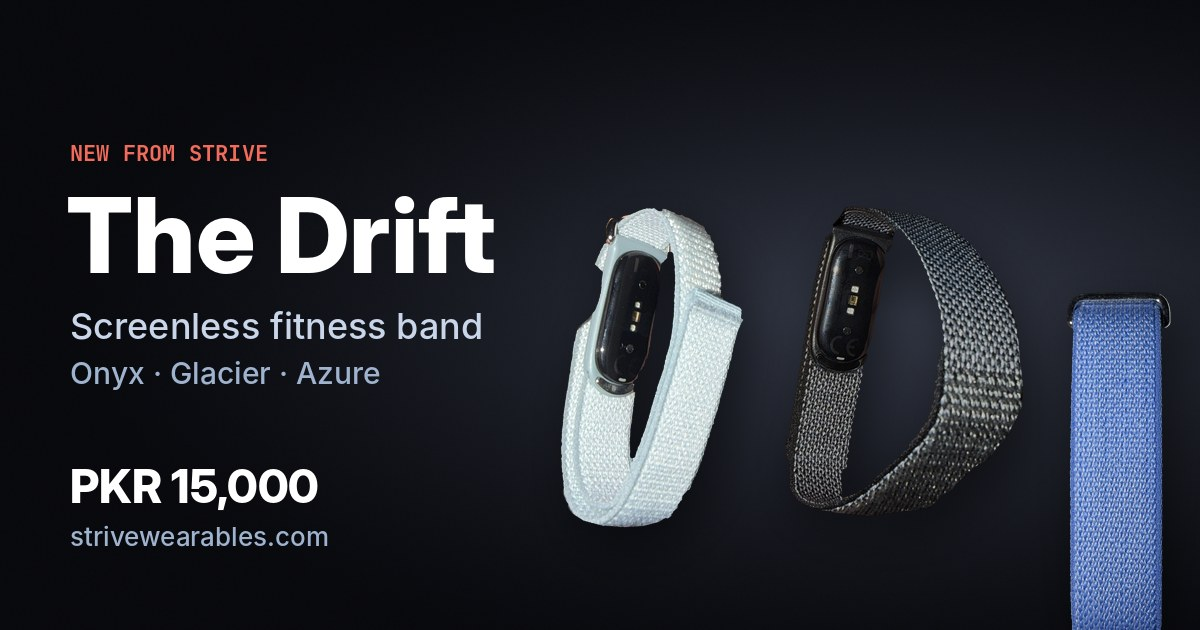
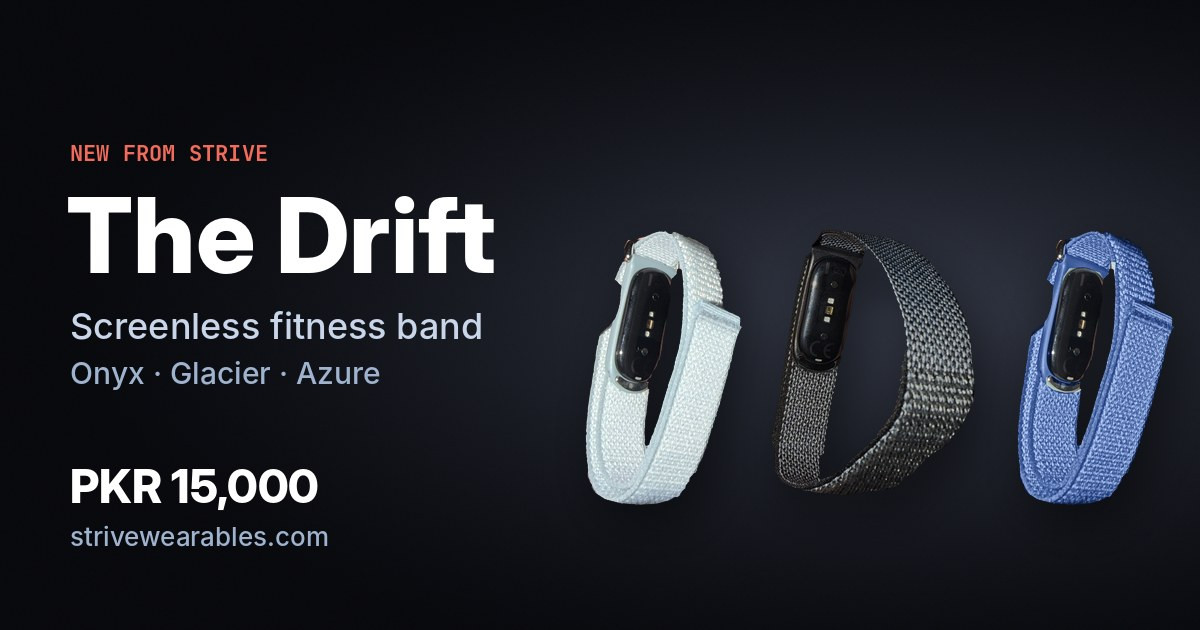
Give Azure a whole-band photo to match Onyx and Glacier
All three colours now lead with the whole band. The Azure shot is the Glacier
whole-band photo with the strap re-coloured to the real Azure blue, as the
Loop's colourways were made; README says so.

Claude-Session: https://claude.ai/code/session_016PYtBGksEsv6PuuVT3mhrr

Changed region(s): [[0.6475, 0.3317, 0.9867, 1.0], [0.4625, 0.3317, 0.6167, 0.8444]]

diff --git a/index.html b/index.html
@@ -26,7 +26,7 @@ function striveTrack(event, params, ga) {
   } catch (e) {}
 }
 var LOOP_EVENT = { content_name: 'The Drift', content_type: 'product', content_ids: ['the-drift'], value: 15000, currency: 'PKR' }; /* the current band (variable name kept from The Loop) */
-</script><script type="application/ld+json">[{"@context":"https://schema.org/","@type":"Product","name":"The Drift by Strive","image":["https://strivewearables.com/img/drift-onyx-band.jpg","https://strivewearables.com/img/drift-glacier-band.jpg","https://strivewearables.com/img/drift-azure-box.jpg"],"description":"A screenless fitness band in three colours (Onyx, Glacier, Azure) with heart rate monitoring, sleep monitoring and 100+ sports modes on a soft woven strap.","color":"Onyx, Glacier, Azure","brand":{"@type":"Brand","name":"Strive Wearables"},"offers":{"@type":"Offer","priceCurrency":"PKR","price":"15000","availability":"https://schema.org/InStock","url":"https://strivewearables.com/#models"}},{"@context":"https://schema.org/","@type":"Product","name":"Strive Arise","color":"Carbon","brand":{"@type":"Brand","name":"Strive Wearables"},"offers":{"@type":"Offer","priceCurrency":"PKR","price":"14000","availability":"https://schema.org/LimitedAvailability","url":"https://strivewearables.com/#models"}},{"@context":"https://schema.org/","@type":"Product","name":"The Loop by Strive","brand":{"@type":"Brand","name":"Strive Wearables"},"offers":{"@type":"Offer","priceCurrency":"PKR","price":"15000","availability":"https://schema.org/OutOfStock","url":"https://strivewearables.com/#models"}}]</script></head><body><svg style="display:none" aria-hidden="true"><symbol id="chk" viewBox="0 0 24 24" fill="none" stroke="#F26B5B" stroke-width="2.5" stroke-linecap="round" stroke-linejoin="round"><path d="M20 6 9 17l-5-5"/></symbol></svg><div class="drop-banner"><div class="wrap drop-banner-inner"><span class="drop-badge">NEW</span><span class="drop-text">The Drift is here — three colours, PKR 15,000.</span><a class="drop-cta" href="#buy">Order now</a></div></div><header class="site"><div class="wrap nav"><a class="logo" href="#top" aria-label="Strive Wearables home"><svg class="mark" viewBox="0 0 40 40" role="img" aria-hidden="true"><defs><linearGradient id="logograd" x1="0" y1="1" x2="1" y2="0"><stop offset="0" stop-color="#1D4ED8"/><stop offset=".5" stop-color="#06B6D4"/><stop offset="1" stop-color="#22C55E"/></linearGradient></defs><rect width="40" height="40" rx="11" fill="rgba(255,255,255,.06)" stroke="rgba(255,255,255,.14)"/><path d="M6 25 L14 25 L16.5 17 L20 31 L24 11 L26.5 20 L29 20 L33 11" fill="none" stroke="url(#logograd)" stroke-width="2.6" stroke-linecap="round" stroke-linejoin="round"/><path d="M28.5 15.5 L33 11 L33 16.6" fill="none" stroke="url(#logograd)" stroke-width="2.6" stroke-linecap="round" stroke-linejoin="round"/></svg><span><span class="word">STRIVE</span><span class="sub">Wearables</span></span></a><nav aria-label="Primary"><a href="#models">The Drift</a><a href="#reviews">Reviews</a><a href="#features">Features</a><a href="#gifting">Gifting</a><a href="#faq">FAQ</a></nav><div class="nav-cta"><button type="button" class="cart-btn" id="cartBtn" aria-label="Cart, 0 items"><svg width="22" height="22" viewBox="0 0 24 24" fill="none" stroke="currentColor" stroke-width="2" stroke-linecap="round" stroke-linejoin="round" aria-hidden="true"><circle cx="9.5" cy="19.5" r="1.5"/><circle cx="17.5" cy="19.5" r="1.5"/><path d="M2.5 3.5h2.8l2.3 11a2 2 0 0 0 2 1.6h7.6a2 2 0 0 0 2-1.5l1.5-7.1H6.2"/></svg><span class="cart-n" id="cartCount" hidden>0</span></button><a class="btn btn-grad" href="#buy">Order now</a></div></div></header><nav class="mnav" aria-label="Sections"><div class="wrap mnav-row"><a href="#models">Price</a><a href="#reviews">Reviews</a><a href="#gifting">Gifting</a><a href="#faq">FAQ</a><a href="https://wa.me/923210077442" target="_blank" rel="noopener">WhatsApp</a></div></nav><main id="top"><section class="hero"><div class="blob" aria-hidden="true"></div><div id="particles" aria-hidden="true"></div><div class="ecg-bg" aria-hidden="true"><svg viewBox="0 0 1600 160" preserveAspectRatio="none"><path class="ecg-track" fill="none" stroke="#F26B5B" stroke-width="2.5" stroke-linejoin="round" stroke-linecap="round"
+</script><script type="application/ld+json">[{"@context":"https://schema.org/","@type":"Product","name":"The Drift by Strive","image":["https://strivewearables.com/img/drift-onyx-band.jpg","https://strivewearables.com/img/drift-glacier-band.jpg","https://strivewearables.com/img/drift-azure-band.jpg"],"description":"A screenless fitness band in three colours (Onyx, Glacier, Azure) with heart rate monitoring, sleep monitoring and 100+ sports modes on a soft woven strap.","color":"Onyx, Glacier, Azure","brand":{"@type":"Brand","name":"Strive Wearables"},"offers":{"@type":"Offer","priceCurrency":"PKR","price":"15000","availability":"https://schema.org/InStock","url":"https://strivewearables.com/#models"}},{"@context":"https://schema.org/","@type":"Product","name":"Strive Arise","color":"Carbon","brand":{"@type":"Brand","name":"Strive Wearables"},"offers":{"@type":"Offer","priceCurrency":"PKR","price":"14000","availability":"https://schema.org/LimitedAvailability","url":"https://strivewearables.com/#models"}},{"@context":"https://schema.org/","@type":"Product","name":"The Loop by Strive","brand":{"@type":"Brand","name":"Strive Wearables"},"offers":{"@type":"Offer","priceCurrency":"PKR","price":"15000","availability":"https://schema.org/OutOfStock","url":"https://strivewearables.com/#models"}}]</script></head><body><svg style="display:none" aria-hidden="true"><symbol id="chk" viewBox="0 0 24 24" fill="none" stroke="#F26B5B" stroke-width="2.5" stroke-linecap="round" stroke-linejoin="round"><path d="M20 6 9 17l-5-5"/></symbol></svg><div class="drop-banner"><div class="wrap drop-banner-inner"><span class="drop-badge">NEW</span><span class="drop-text">The Drift is here — three colours, PKR 15,000.</span><a class="drop-cta" href="#buy">Order now</a></div></div><header class="site"><div class="wrap nav"><a class="logo" href="#top" aria-label="Strive Wearables home"><svg class="mark" viewBox="0 0 40 40" role="img" aria-hidden="true"><defs><linearGradient id="logograd" x1="0" y1="1" x2="1" y2="0"><stop offset="0" stop-color="#1D4ED8"/><stop offset=".5" stop-color="#06B6D4"/><stop offset="1" stop-color="#22C55E"/></linearGradient></defs><rect width="40" height="40" rx="11" fill="rgba(255,255,255,.06)" stroke="rgba(255,255,255,.14)"/><path d="M6 25 L14 25 L16.5 17 L20 31 L24 11 L26.5 20 L29 20 L33 11" fill="none" stroke="url(#logograd)" stroke-width="2.6" stroke-linecap="round" stroke-linejoin="round"/><path d="M28.5 15.5 L33 11 L33 16.6" fill="none" stroke="url(#logograd)" stroke-width="2.6" stroke-linecap="round" stroke-linejoin="round"/></svg><span><span class="word">STRIVE</span><span class="sub">Wearables</span></span></a><nav aria-label="Primary"><a href="#models">The Drift</a><a href="#reviews">Reviews</a><a href="#features">Features</a><a href="#gifting">Gifting</a><a href="#faq">FAQ</a></nav><div class="nav-cta"><button type="button" class="cart-btn" id="cartBtn" aria-label="Cart, 0 items"><svg width="22" height="22" viewBox="0 0 24 24" fill="none" stroke="currentColor" stroke-width="2" stroke-linecap="round" stroke-linejoin="round" aria-hidden="true"><circle cx="9.5" cy="19.5" r="1.5"/><circle cx="17.5" cy="19.5" r="1.5"/><path d="M2.5 3.5h2.8l2.3 11a2 2 0 0 0 2 1.6h7.6a2 2 0 0 0 2-1.5l1.5-7.1H6.2"/></svg><span class="cart-n" id="cartCount" hidden>0</span></button><a class="btn btn-grad" href="#buy">Order now</a></div></div></header><nav class="mnav" aria-label="Sections"><div class="wrap mnav-row"><a href="#models">Price</a><a href="#reviews">Reviews</a><a href="#gifting">Gifting</a><a href="#faq">FAQ</a><a href="https://wa.me/923210077442" target="_blank" rel="noopener">WhatsApp</a></div></nav><main id="top"><section class="hero"><div class="blob" aria-hidden="true"></div><div id="particles" aria-hidden="true"></div><div class="ecg-bg" aria-hidden="true"><svg viewBox="0 0 1600 160" preserveAspectRatio="none"><path class="ecg-track" fill="none" stroke="#F26B5B" stroke-width="2.5" stroke-linejoin="round" stroke-linecap="round"
         d="M0 80 H120 l16 0 l10 -42 l14 78 l16 -120 l12 84 l10 0 H300 l16 0 l10 -42 l14 78 l16 -120 l12 84 l10 0 H500 l16 0 l10 -42 l14 78 l16 -120 l12 84 l10 0 H700 l16 0 l10 -42 l14 78 l16 -120 l12 84 l10 0 H900 l16 0 l10 -42 l14 78 l16 -120 l12 84 l10 0 H1100 l16 0 l10 -42 l14 78 l16 -120 l12 84 l10 0 H1300 l16 0 l10 -42 l14 78 l16 -120 l12 84 l10 0 H1600"/></svg></div><div class="wrap hero-grid"><div><span class="eyebrow">New · The Drift</span><h1>Train. Track. <span class="grad-text">Repeat.</span></h1><p class="lead">A screenless fitness band that gets out of your way. No display to distract you — your numbers live in the companion app.</p><div class="hero-fan" role="img" aria-label="The Drift in Onyx, Glacier and Azure"><img src="img/hero-drift-onyx.jpg" alt="" width="400" height="500" loading="lazy" /><img src="img/hero-drift-glacier.jpg" alt="" width="400" height="500" loading="lazy" /><img src="img/hero-drift-azure.jpg" alt="" width="400" height="500" loading="lazy" /></div><p class="hero-price"><strong>PKR 15,000</strong> · 3 colours</p><div class="cta-row"><a class="btn btn-grad" href="#buy">Order now</a><a class="btn btn-ghost" href="#features">What it tracks</a></div><div class="trust"><span><i class="dot"></i> Delivery across Pakistan</span><span><i class="dot"></i> Heart rate &amp; sleep monitoring</span><span><i class="dot"></i> 100+ sports modes</span></div></div><div class="glass" role="img" aria-label="Example of a day in the companion app: heart rate 62 bpm, 7 hours 20 minutes sleep, a 45 minute workout."><div class="gh"><span class="day">Example day · Companion app</span></div><div class="ring-wrap"><svg class="ring" viewBox="0 0 120 120" aria-hidden="true"><defs><linearGradient id="ringgrad" x1="0" y1="1" x2="1" y2="0"><stop offset="0" stop-color="#F26B5B"/><stop offset="1" stop-color="#FFB3A7"/></linearGradient></defs><circle class="bg" cx="60" cy="60" r="54" fill="none" stroke-width="11"/><circle class="fg" id="heroRing" cx="60" cy="60" r="54" fill="none" stroke-width="11"/><g class="ring-center" text-anchor="middle"><text class="pct" x="60" y="62">62</text><text class="lbl" x="60" y="77">BPM</text></g></svg><div class="ring-info"><div class="big">7h 20<small>m</small></div><div class="small">Sleep last night</div></div></div><div class="stat-row"><div class="stat"><div class="k">Workout</div><div class="v">45<small> min</small></div></div><div class="stat"><div class="k">Avg heart rate</div><div class="v">128<small> bpm</small></div></div><div class="stat"><div class="k">Sports modes</div><div class="v">100<small>+</small></div></div></div></div></div></div></section><div class="marquee" aria-hidden="true"><div class="track"><span>Time to Strive</span><span>Heart Rate Monitoring</span><span>Sleep Monitoring</span><span>100+ Sports Modes</span><span>No Screen</span><span>Soft Woven Strap</span><span>Three Colours</span><span>Delivery Across Pakistan</span><span>Time to Strive</span><span>Heart Rate Monitoring</span><span>Sleep Monitoring</span><span>100+ Sports Modes</span><span>No Screen</span><span>Soft Woven Strap</span><span>Three Colours</span><span>Delivery Across Pakistan</span></div></div><section class="models section-pad" id="models"><div class="wrap"><div class="sec-head reveal" style="text-align:center;margin-inline:auto"><span class="eyebrow">New from Strive</span><h2 style="color:#fff">Meet <span class="loop-grad">The Drift</span></h2><p style="color:#9fb3cf">Our new screenless band — a soft woven strap, no display, three colours. Your data lives in the companion app.</p></div><div class="showcase"><div class="showcase-visual"><div class="showcase-media" id="media"><img id="productImg" src="img/drift-onyx-band.jpg" alt="The Drift in Onyx (black) — the whole band" width="900" height="1125" decoding="async" /><span class="media-note" id="mediaNote">Onyx</span></div><div class="media-thumbs" id="mediaThumbs" role="group" aria-label="Product photos"><button type="button" class="thumb on" data-view="band" aria-pressed="true" aria-label="The whole band"><img src="img/thumb-drift-onyx-band.jpg" alt="" width="160" height="200" loading="lazy" decoding="async" /></button><button type="button" class="thumb" data-view="strap" aria-pressed="false" aria-label="Strap and buckle"><img src="img/thumb-drift-onyx-strap.jpg" alt="" width="160" height="200" loading="lazy" decoding="async" /></button><button type="button" class="thumb" data-view="back" aria-pressed="false" aria-label="Fastening"><img src="img/thumb-drift-onyx-back.jpg" alt="" width="160" height="200" loading="lazy" decoding="async" /></button></div></div><div class="showcase-body" id="buy"><span class="badge2">New</span><h3><span class="loop-grad">The Drift</span></h3><div class="tag">One soft woven strap. Three colours. No screen.</div><div class="price">PKR 15,000</div><p class="pay-note">Pay by Bank Deposit (no cash on delivery) · Delivery across Pakistan, delivery charges apply · Same-day delivery in Lahore</p><div class="swatch-label">Colour: <strong id="swatchName">Onyx</strong> <span class="swatch-sub" id="swatchSub">· black</span></div><div class="swatches" role="radiogroup" aria-label="Colour"><button type="button" class="swatch on" data-variant="Onyx" data-sub="black" style="--sw:#1B1C20" role="radio" aria-checked="true"><span></span>Onyx</button><button type="button" class="swatch" data-variant="Glacier" data-sub="light blue" style="--sw:#D5E6EC" role="radio" aria-checked="false"><span></span>Glacier</button><button type="button" class="swatch" data-variant="Azure" data-sub="blue" style="--sw:#5F8BDA" role="radio" aria-checked="false"><span></span>Azure</button></div><div class="buy-box"><div class="qty-row"><span class="qty-label" id="qtyLabel">Quantity</span><div class="qty" role="group" aria-labelledby="qtyLabel"><button type="button" class="qty-btn" id="qtyMinus" aria-label="One less">&minus;</button><output class="qty-val" id="qtyVal" aria-live="polite">1</output><button type="button" class="qty-btn" id="qtyPlus" aria-label="One more">+</button></div></div><div id="product-buy"></div><p class="buy-msg" id="buyMsg" role="status" hidden></p><script>(function () {
   /* The shop: Add to cart / cart drawer / Shopify checkout.
      Pick a colour + quantity, Add to cart, repeat for other colours, then Checkout in the cart.
@@ -47,7 +47,7 @@ var LOOP_EVENT = { content_name: 'The Drift', content_type: 'product', content_i
   var ITEMS = {
     Onyx: { title: 'The Drift', colour: 'Onyx', price: 15000, max: 10, product: 'band', thumb: 'img/thumb-drift-onyx-band.jpg' },
     Glacier: { title: 'The Drift', colour: 'Glacier', price: 15000, max: 10, product: 'band', thumb: 'img/thumb-drift-glacier-band.jpg' },
-    Azure: { title: 'The Drift', colour: 'Azure', price: 15000, max: 10, product: 'band', thumb: 'img/thumb-drift-azure-box.jpg' },
+    Azure: { title: 'The Drift', colour: 'Azure', price: 15000, max: 10, product: 'band', thumb: 'img/thumb-drift-azure-band.jpg' },
     Arise: { title: 'Strive Arise', colour: 'Carbon', price: 14000, max: 1, product: 'arise', thumb: 'img/thumb-arise.jpg' }
   };
   var KEYS = Object.keys(ITEMS);
@@ -485,7 +485,7 @@ document.querySelectorAll('[data-close-modal]').forEach(el=>{
   el.addEventListener('click', closeModal);
 });
 /* Product gallery: each colour has its own set of photos */
-const GALLERY = {"Onyx": [["band", "the whole band"], ["strap", "strap and buckle"], ["back", "fastening"]], "Glacier": [["band", "the whole band"], ["strap", "strap and buckle"], ["weave", "the weave up close"]], "Azure": [["box", "in the box"], ["strap", "strap and buckle"], ["weave", "the weave up close"]]};
+const GALLERY = {"Onyx": [["band", "the whole band"], ["strap", "strap and buckle"], ["back", "fastening"]], "Glacier": [["band", "the whole band"], ["strap", "strap and buckle"], ["weave", "the weave up close"]], "Azure": [["band", "the whole band"], ["box", "in the box"], ["strap", "strap and buckle"]]};
 const COLOUR_SUB = {"Onyx": "black", "Glacier": "light blue", "Azure": "blue"};
 const COLOUR_FILE = {"Onyx": "onyx", "Glacier": "glacier", "Azure": "azure"};
 let mediaView = 'band';

diff --git a/strive-arise-all-in-one.html b/strive-arise-all-in-one.html
@@ -26,7 +26,7 @@ function striveTrack(event, params, ga) {
   } catch (e) {}
 }
 var LOOP_EVENT = { content_name: 'The Drift', content_type: 'product', content_ids: ['the-drift'], value: 15000, currency: 'PKR' }; /* the current band (variable name kept from The Loop) */
-</script><script type="application/ld+json">[{"@context":"https://schema.org/","@type":"Product","name":"The Drift by Strive","image":["https://strivewearables.com/img/drift-onyx-band.jpg","https://strivewearables.com/img/drift-glacier-band.jpg","https://strivewearables.com/img/drift-azure-box.jpg"],"description":"A screenless fitness band in three colours (Onyx, Glacier, Azure) with heart rate monitoring, sleep monitoring and 100+ sports modes on a soft woven strap.","color":"Onyx, Glacier, Azure","brand":{"@type":"Brand","name":"Strive Wearables"},"offers":{"@type":"Offer","priceCurrency":"PKR","price":"15000","availability":"https://schema.org/InStock","url":"https://strivewearables.com/#models"}},{"@context":"https://schema.org/","@type":"Product","name":"Strive Arise","color":"Carbon","brand":{"@type":"Brand","name":"Strive Wearables"},"offers":{"@type":"Offer","priceCurrency":"PKR","price":"14000","availability":"https://schema.org/LimitedAvailability","url":"https://strivewearables.com/#models"}},{"@context":"https://schema.org/","@type":"Product","name":"The Loop by Strive","brand":{"@type":"Brand","name":"Strive Wearables"},"offers":{"@type":"Offer","priceCurrency":"PKR","price":"15000","availability":"https://schema.org/OutOfStock","url":"https://strivewearables.com/#models"}}]</script></head><body><svg style="display:none" aria-hidden="true"><symbol id="chk" viewBox="0 0 24 24" fill="none" stroke="#F26B5B" stroke-width="2.5" stroke-linecap="round" stroke-linejoin="round"><path d="M20 6 9 17l-5-5"/></symbol></svg><div class="drop-banner"><div class="wrap drop-banner-inner"><span class="drop-badge">NEW</span><span class="drop-text">The Drift is here — three colours, PKR 15,000.</span><a class="drop-cta" href="#buy">Order now</a></div></div><header class="site"><div class="wrap nav"><a class="logo" href="#top" aria-label="Strive Wearables home"><svg class="mark" viewBox="0 0 40 40" role="img" aria-hidden="true"><defs><linearGradient id="logograd" x1="0" y1="1" x2="1" y2="0"><stop offset="0" stop-color="#1D4ED8"/><stop offset=".5" stop-color="#06B6D4"/><stop offset="1" stop-color="#22C55E"/></linearGradient></defs><rect width="40" height="40" rx="11" fill="rgba(255,255,255,.06)" stroke="rgba(255,255,255,.14)"/><path d="M6 25 L14 25 L16.5 17 L20 31 L24 11 L26.5 20 L29 20 L33 11" fill="none" stroke="url(#logograd)" stroke-width="2.6" stroke-linecap="round" stroke-linejoin="round"/><path d="M28.5 15.5 L33 11 L33 16.6" fill="none" stroke="url(#logograd)" stroke-width="2.6" stroke-linecap="round" stroke-linejoin="round"/></svg><span><span class="word">STRIVE</span><span class="sub">Wearables</span></span></a><nav aria-label="Primary"><a href="#models">The Drift</a><a href="#reviews">Reviews</a><a href="#features">Features</a><a href="#gifting">Gifting</a><a href="#faq">FAQ</a></nav><div class="nav-cta"><button type="button" class="cart-btn" id="cartBtn" aria-label="Cart, 0 items"><svg width="22" height="22" viewBox="0 0 24 24" fill="none" stroke="currentColor" stroke-width="2" stroke-linecap="round" stroke-linejoin="round" aria-hidden="true"><circle cx="9.5" cy="19.5" r="1.5"/><circle cx="17.5" cy="19.5" r="1.5"/><path d="M2.5 3.5h2.8l2.3 11a2 2 0 0 0 2 1.6h7.6a2 2 0 0 0 2-1.5l1.5-7.1H6.2"/></svg><span class="cart-n" id="cartCount" hidden>0</span></button><a class="btn btn-grad" href="#buy">Order now</a></div></div></header><nav class="mnav" aria-label="Sections"><div class="wrap mnav-row"><a href="#models">Price</a><a href="#reviews">Reviews</a><a href="#gifting">Gifting</a><a href="#faq">FAQ</a><a href="https://wa.me/923210077442" target="_blank" rel="noopener">WhatsApp</a></div></nav><main id="top"><section class="hero"><div class="blob" aria-hidden="true"></div><div id="particles" aria-hidden="true"></div><div class="ecg-bg" aria-hidden="true"><svg viewBox="0 0 1600 160" preserveAspectRatio="none"><path class="ecg-track" fill="none" stroke="#F26B5B" stroke-width="2.5" stroke-linejoin="round" stroke-linecap="round"
+</script><script type="application/ld+json">[{"@context":"https://schema.org/","@type":"Product","name":"The Drift by Strive","image":["https://strivewearables.com/img/drift-onyx-band.jpg","https://strivewearables.com/img/drift-glacier-band.jpg","https://strivewearables.com/img/drift-azure-band.jpg"],"description":"A screenless fitness band in three colours (Onyx, Glacier, Azure) with heart rate monitoring, sleep monitoring and 100+ sports modes on a soft woven strap.","color":"Onyx, Glacier, Azure","brand":{"@type":"Brand","name":"Strive Wearables"},"offers":{"@type":"Offer","priceCurrency":"PKR","price":"15000","availability":"https://schema.org/InStock","url":"https://strivewearables.com/#models"}},{"@context":"https://schema.org/","@type":"Product","name":"Strive Arise","color":"Carbon","brand":{"@type":"Brand","name":"Strive Wearables"},"offers":{"@type":"Offer","priceCurrency":"PKR","price":"14000","availability":"https://schema.org/LimitedAvailability","url":"https://strivewearables.com/#models"}},{"@context":"https://schema.org/","@type":"Product","name":"The Loop by Strive","brand":{"@type":"Brand","name":"Strive Wearables"},"offers":{"@type":"Offer","priceCurrency":"PKR","price":"15000","availability":"https://schema.org/OutOfStock","url":"https://strivewearables.com/#models"}}]</script></head><body><svg style="display:none" aria-hidden="true"><symbol id="chk" viewBox="0 0 24 24" fill="none" stroke="#F26B5B" stroke-width="2.5" stroke-linecap="round" stroke-linejoin="round"><path d="M20 6 9 17l-5-5"/></symbol></svg><div class="drop-banner"><div class="wrap drop-banner-inner"><span class="drop-badge">NEW</span><span class="drop-text">The Drift is here — three colours, PKR 15,000.</span><a class="drop-cta" href="#buy">Order now</a></div></div><header class="site"><div class="wrap nav"><a class="logo" href="#top" aria-label="Strive Wearables home"><svg class="mark" viewBox="0 0 40 40" role="img" aria-hidden="true"><defs><linearGradient id="logograd" x1="0" y1="1" x2="1" y2="0"><stop offset="0" stop-color="#1D4ED8"/><stop offset=".5" stop-color="#06B6D4"/><stop offset="1" stop-color="#22C55E"/></linearGradient></defs><rect width="40" height="40" rx="11" fill="rgba(255,255,255,.06)" stroke="rgba(255,255,255,.14)"/><path d="M6 25 L14 25 L16.5 17 L20 31 L24 11 L26.5 20 L29 20 L33 11" fill="none" stroke="url(#logograd)" stroke-width="2.6" stroke-linecap="round" stroke-linejoin="round"/><path d="M28.5 15.5 L33 11 L33 16.6" fill="none" stroke="url(#logograd)" stroke-width="2.6" stroke-linecap="round" stroke-linejoin="round"/></svg><span><span class="word">STRIVE</span><span class="sub">Wearables</span></span></a><nav aria-label="Primary"><a href="#models">The Drift</a><a href="#reviews">Reviews</a><a href="#features">Features</a><a href="#gifting">Gifting</a><a href="#faq">FAQ</a></nav><div class="nav-cta"><button type="button" class="cart-btn" id="cartBtn" aria-label="Cart, 0 items"><svg width="22" height="22" viewBox="0 0 24 24" fill="none" stroke="currentColor" stroke-width="2" stroke-linecap="round" stroke-linejoin="round" aria-hidden="true"><circle cx="9.5" cy="19.5" r="1.5"/><circle cx="17.5" cy="19.5" r="1.5"/><path d="M2.5 3.5h2.8l2.3 11a2 2 0 0 0 2 1.6h7.6a2 2 0 0 0 2-1.5l1.5-7.1H6.2"/></svg><span class="cart-n" id="cartCount" hidden>0</span></button><a class="btn btn-grad" href="#buy">Order now</a></div></div></header><nav class="mnav" aria-label="Sections"><div class="wrap mnav-row"><a href="#models">Price</a><a href="#reviews">Reviews</a><a href="#gifting">Gifting</a><a href="#faq">FAQ</a><a href="https://wa.me/923210077442" target="_blank" rel="noopener">WhatsApp</a></div></nav><main id="top"><section class="hero"><div class="blob" aria-hidden="true"></div><div id="particles" aria-hidden="true"></div><div class="ecg-bg" aria-hidden="true"><svg viewBox="0 0 1600 160" preserveAspectRatio="none"><path class="ecg-track" fill="none" stroke="#F26B5B" stroke-width="2.5" stroke-linejoin="round" stroke-linecap="round"
         d="M0 80 H120 l16 0 l10 -42 l14 78 l16 -120 l12 84 l10 0 H300 l16 0 l10 -42 l14 78 l16 -120 l12 84 l10 0 H500 l16 0 l10 -42 l14 78 l16 -120 l12 84 l10 0 H700 l16 0 l10 -42 l14 78 l16 -120 l12 84 l10 0 H900 l16 0 l10 -42 l14 78 l16 -120 l12 84 l10 0 H1100 l16 0 l10 -42 l14 78 l16 -120 l12 84 l10 0 H1300 l16 0 l10 -42 l14 78 l16 -120 l12 84 l10 0 H1600"/></svg></div><div class="wrap hero-grid"><div><span class="eyebrow">New · The Drift</span><h1>Train. Track. <span class="grad-text">Repeat.</span></h1><p class="lead">A screenless fitness band that gets out of your way. No display to distract you — your numbers live in the companion app.</p><div class="hero-fan" role="img" aria-label="The Drift in Onyx, Glacier and Azure"><img src="img/hero-drift-onyx.jpg" alt="" width="400" height="500" loading="lazy" /><img src="img/hero-drift-glacier.jpg" alt="" width="400" height="500" loading="lazy" /><img src="img/hero-drift-azure.jpg" alt="" width="400" height="500" loading="lazy" /></div><p class="hero-price"><strong>PKR 15,000</strong> · 3 colours</p><div class="cta-row"><a class="btn btn-grad" href="#buy">Order now</a><a class="btn btn-ghost" href="#features">What it tracks</a></div><div class="trust"><span><i class="dot"></i> Delivery across Pakistan</span><span><i class="dot"></i> Heart rate &amp; sleep monitoring</span><span><i class="dot"></i> 100+ sports modes</span></div></div><div class="glass" role="img" aria-label="Example of a day in the companion app: heart rate 62 bpm, 7 hours 20 minutes sleep, a 45 minute workout."><div class="gh"><span class="day">Example day · Companion app</span></div><div class="ring-wrap"><svg class="ring" viewBox="0 0 120 120" aria-hidden="true"><defs><linearGradient id="ringgrad" x1="0" y1="1" x2="1" y2="0"><stop offset="0" stop-color="#F26B5B"/><stop offset="1" stop-color="#FFB3A7"/></linearGradient></defs><circle class="bg" cx="60" cy="60" r="54" fill="none" stroke-width="11"/><circle class="fg" id="heroRing" cx="60" cy="60" r="54" fill="none" stroke-width="11"/><g class="ring-center" text-anchor="middle"><text class="pct" x="60" y="62">62</text><text class="lbl" x="60" y="77">BPM</text></g></svg><div class="ring-info"><div class="big">7h 20<small>m</small></div><div class="small">Sleep last night</div></div></div><div class="stat-row"><div class="stat"><div class="k">Workout</div><div class="v">45<small> min</small></div></div><div class="stat"><div class="k">Avg heart rate</div><div class="v">128<small> bpm</small></div></div><div class="stat"><div class="k">Sports modes</div><div class="v">100<small>+</small></div></div></div></div></div></div></section><div class="marquee" aria-hidden="true"><div class="track"><span>Time to Strive</span><span>Heart Rate Monitoring</span><span>Sleep Monitoring</span><span>100+ Sports Modes</span><span>No Screen</span><span>Soft Woven Strap</span><span>Three Colours</span><span>Delivery Across Pakistan</span><span>Time to Strive</span><span>Heart Rate Monitoring</span><span>Sleep Monitoring</span><span>100+ Sports Modes</span><span>No Screen</span><span>Soft Woven Strap</span><span>Three Colours</span><span>Delivery Across Pakistan</span></div></div><section class="models section-pad" id="models"><div class="wrap"><div class="sec-head reveal" style="text-align:center;margin-inline:auto"><span class="eyebrow">New from Strive</span><h2 style="color:#fff">Meet <span class="loop-grad">The Drift</span></h2><p style="color:#9fb3cf">Our new screenless band — a soft woven strap, no display, three colours. Your data lives in the companion app.</p></div><div class="showcase"><div class="showcase-visual"><div class="showcase-media" id="media"><img id="productImg" src="img/drift-onyx-band.jpg" alt="The Drift in Onyx (black) — the whole band" width="900" height="1125" decoding="async" /><span class="media-note" id="mediaNote">Onyx</span></div><div class="media-thumbs" id="mediaThumbs" role="group" aria-label="Product photos"><button type="button" class="thumb on" data-view="band" aria-pressed="true" aria-label="The whole band"><img src="img/thumb-drift-onyx-band.jpg" alt="" width="160" height="200" loading="lazy" decoding="async" /></button><button type="button" class="thumb" data-view="strap" aria-pressed="false" aria-label="Strap and buckle"><img src="img/thumb-drift-onyx-strap.jpg" alt="" width="160" height="200" loading="lazy" decoding="async" /></button><button type="button" class="thumb" data-view="back" aria-pressed="false" aria-label="Fastening"><img src="img/thumb-drift-onyx-back.jpg" alt="" width="160" height="200" loading="lazy" decoding="async" /></button></div></div><div class="showcase-body" id="buy"><span class="badge2">New</span><h3><span class="loop-grad">The Drift</span></h3><div class="tag">One soft woven strap. Three colours. No screen.</div><div class="price">PKR 15,000</div><p class="pay-note">Pay by Bank Deposit (no cash on delivery) · Delivery across Pakistan, delivery charges apply · Same-day delivery in Lahore</p><div class="swatch-label">Colour: <strong id="swatchName">Onyx</strong> <span class="swatch-sub" id="swatchSub">· black</span></div><div class="swatches" role="radiogroup" aria-label="Colour"><button type="button" class="swatch on" data-variant="Onyx" data-sub="black" style="--sw:#1B1C20" role="radio" aria-checked="true"><span></span>Onyx</button><button type="button" class="swatch" data-variant="Glacier" data-sub="light blue" style="--sw:#D5E6EC" role="radio" aria-checked="false"><span></span>Glacier</button><button type="button" class="swatch" data-variant="Azure" data-sub="blue" style="--sw:#5F8BDA" role="radio" aria-checked="false"><span></span>Azure</button></div><div class="buy-box"><div class="qty-row"><span class="qty-label" id="qtyLabel">Quantity</span><div class="qty" role="group" aria-labelledby="qtyLabel"><button type="button" class="qty-btn" id="qtyMinus" aria-label="One less">&minus;</button><output class="qty-val" id="qtyVal" aria-live="polite">1</output><button type="button" class="qty-btn" id="qtyPlus" aria-label="One more">+</button></div></div><div id="product-buy"></div><p class="buy-msg" id="buyMsg" role="status" hidden></p><script>(function () {
   /* The shop: Add to cart / cart drawer / Shopify checkout.
      Pick a colour + quantity, Add to cart, repeat for other colours, then Checkout in the cart.
@@ -47,7 +47,7 @@ var LOOP_EVENT = { content_name: 'The Drift', content_type: 'product', content_i
   var ITEMS = {
     Onyx: { title: 'The Drift', colour: 'Onyx', price: 15000, max: 10, product: 'band', thumb: 'img/thumb-drift-onyx-band.jpg' },
     Glacier: { title: 'The Drift', colour: 'Glacier', price: 15000, max: 10, product: 'band', thumb: 'img/thumb-drift-glacier-band.jpg' },
-    Azure: { title: 'The Drift', colour: 'Azure', price: 15000, max: 10, product: 'band', thumb: 'img/thumb-drift-azure-box.jpg' },
+    Azure: { title: 'The Drift', colour: 'Azure', price: 15000, max: 10, product: 'band', thumb: 'img/thumb-drift-azure-band.jpg' },
     Arise: { title: 'Strive Arise', colour: 'Carbon', price: 14000, max: 1, product: 'arise', thumb: 'img/thumb-arise.jpg' }
   };
   var KEYS = Object.keys(ITEMS);
@@ -485,7 +485,7 @@ document.querySelectorAll('[data-close-modal]').forEach(el=>{
   el.addEventListener('click', closeModal);
 });
 /* Product gallery: each colour has its own set of photos */
-const GALLERY = {"Onyx": [["band", "the whole band"], ["strap", "strap and buckle"], ["back", "fastening"]], "Glacier": [["band", "the whole band"], ["strap", "strap and buckle"], ["weave", "the weave up close"]], "Azure": [["box", "in the box"], ["strap", "strap and buckle"], ["weave", "the weave up close"]]};
+const GALLERY = {"Onyx": [["band", "the whole band"], ["strap", "strap and buckle"], ["back", "fastening"]], "Glacier": [["band", "the whole band"], ["strap", "strap and buckle"], ["weave", "the weave up close"]], "Azure": [["band", "the whole band"], ["box", "in the box"], ["strap", "strap and buckle"]]};
 const COLOUR_SUB = {"Onyx": "black", "Glacier": "light blue", "Azure": "blue"};
 const COLOUR_FILE = {"Onyx": "onyx", "Glacier": "glacier", "Azure": "azure"};
 let mediaView = 'band';

diff --git a/README.md b/README.md
@@ -25,12 +25,15 @@ the site in search results and refreshes it on its own schedule.
 
 All photos live in `img/`. The Drift photos were made from the owner's own phone photos of the bands: the band is cut out and
 placed on a dark studio background (real product pixels, nothing redrawn), or the in-box photo is cropped.
+The one exception is `drift-azure-band.jpg`: the owner had no whole-band photo of the blue band, so it is the Glacier
+whole-band photo with only the strap and its matching frame re-coloured to the real Azure blue (taken from the photo of
+the Azure strap), the same way The Loop's colourways were made. Replace it if a real whole-band photo of the blue band is taken.
 
 | Colour | Photos |
 |---|---|
 | Onyx (black) | `drift-onyx-band.jpg` (the whole band), `drift-onyx-strap.jpg` (strap and buckle), `drift-onyx-back.jpg` (fastening) |
 | Glacier (light blue) | `drift-glacier-band.jpg` (the whole band), `drift-glacier-strap.jpg` (strap and buckle), `drift-glacier-weave.jpg` (the weave up close) |
-| Azure (blue) | `drift-azure-box.jpg` (in the box), `drift-azure-strap.jpg` (strap and buckle), `drift-azure-weave.jpg` (the weave up close) |
+| Azure (blue) | `drift-azure-band.jpg` (the whole band), `drift-azure-box.jpg` (in the box), `drift-azure-strap.jpg` (strap and buckle) |
 
 Each photo is 900×1125 (portrait 4:5). Smaller copies are made from them so phones load less:
 
